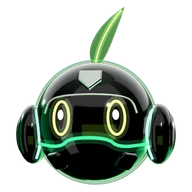
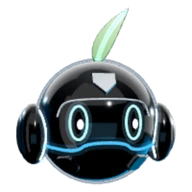
Oli no azul do app
Troca a paleta verde do avatar 3D (neon, contorno, luzes, reflexos, universo
digital, halo e chão) por tons do azul do app; mantém âmbar ao pensar, branco
ao falar e a folha verde-prata. Fundo do palco no mesmo azul nos dois temas e
mini Oli da barra inferior gerado de novo.

Claude-Session: https://claude.ai/code/session_013cEAfrwRiRdfPru71NKFBx

Changed region(s): [[0.0625, 0.0312, 0.9375, 0.9688]]

diff --git a/src/components/oli/oli3d.ts b/src/components/oli/oli3d.ts
@@ -1,4 +1,4 @@
-// Oli em 3D (versão aprovada no protótipo): robô preto espelhado com neon verde, olhos em anel,
+// Oli em 3D (versão aprovada no protótipo, recolorida no azul do app): robô preto espelhado com neon azul, olhos em anel,
 // folha de oliveira no topo e universo digital ao fundo.
 // Arrastar gira o robô (ele volta a olhar de frente); tocar nas partes faz o Oli reagir.
 // Este módulo só é carregado por import() dinâmico depois da primeira pintura (three fica em chunk próprio).
@@ -66,13 +66,13 @@ export async function createOli3D(container: HTMLElement, opts: { scenery?: bool
     ec.width = 512; ec.height = 256;
     const g = ec.getContext("2d")!;
     const grd = g.createLinearGradient(0, 0, 0, 256);
-    grd.addColorStop(0, "#eaf4ec"); grd.addColorStop(0.45, "#16201a"); grd.addColorStop(1, "#040605");
+    grd.addColorStop(0, "#eaf4fb"); grd.addColorStop(0.45, "#13202b"); grd.addColorStop(1, "#030609");
     g.fillStyle = grd; g.fillRect(0, 0, 512, 256);
     g.fillStyle = "#ffffff";
     [[30, 36, 210, 74], [290, 26, 180, 60], [446, 70, 38, 130], [190, 120, 50, 26]].forEach((r) => g.fillRect(r[0], r[1], r[2], r[3]));
-    g.fillStyle = "#6bff9a"; g.fillRect(120, 150, 110, 30);
-    g.fillStyle = "#c8f06a"; g.fillRect(330, 130, 90, 40);
-    g.fillStyle = "#2fd68a"; g.fillRect(6, 104, 44, 70);
+    g.fillStyle = "#3fa6da"; g.fillRect(120, 150, 110, 30);
+    g.fillStyle = "#9fdcff"; g.fillRect(330, 130, 90, 40);
+    g.fillStyle = "#1a79a8"; g.fillRect(6, 104, 44, 70);
     const envTex = new THREE.CanvasTexture(ec);
     envTex.mapping = THREE.EquirectangularReflectionMapping;
     envTex.colorSpace = THREE.SRGBColorSpace;
@@ -87,10 +87,10 @@ export async function createOli3D(container: HTMLElement, opts: { scenery?: bool
   const key = new THREE.DirectionalLight(0xffffff, 2.1);
   key.position.set(2.5, 3.5, 5);
   scene.add(key);
-  const rimL = new THREE.PointLight(0x7dffb0, 22, 14, 1.5);
+  const rimL = new THREE.PointLight(0x7fcdf5, 22, 14, 1.5);
   rimL.position.set(-4, 1.5, -2.5);
   scene.add(rimL);
-  const rimR = new THREE.PointLight(0xd8ffe0, 22, 14, 1.5);
+  const rimR = new THREE.PointLight(0xd7eefa, 22, 14, 1.5);
   rimR.position.set(4, 0.5, -2.5);
   scene.add(rimR);
 
@@ -160,17 +160,17 @@ export async function createOli3D(container: HTMLElement, opts: { scenery?: bool
   waveTex.wrapS = THREE.RepeatWrapping;
 
   const bodyMat = new THREE.MeshPhysicalMaterial({ color: 0x040506, roughness: 0.1, metalness: 0.85, clearcoat: 1, clearcoatRoughness: 0.05, envMapIntensity: 2.4, bumpMap: waveTex, bumpScale: 1.2 });
-  const accentMat = new THREE.MeshPhysicalMaterial({ color: 0xdce6df, roughness: 0.12, metalness: 1, envMapIntensity: 2, side: THREE.DoubleSide });
-  const btnMat = new THREE.MeshPhysicalMaterial({ color: 0x0a1410, roughness: 0.1, metalness: 0.7, clearcoat: 1, clearcoatRoughness: 0.08, envMapIntensity: 2 });
-  // três grupos de neon em tons de verde
+  const accentMat = new THREE.MeshPhysicalMaterial({ color: 0xdce5ec, roughness: 0.12, metalness: 1, envMapIntensity: 2, side: THREE.DoubleSide });
+  const btnMat = new THREE.MeshPhysicalMaterial({ color: 0x08121a, roughness: 0.1, metalness: 0.7, clearcoat: 1, clearcoatRoughness: 0.08, envMapIntensity: 2 });
+  // três grupos de neon em tons do azul do app
   const mkSet = (c: number): NeonSet => ({
     base: new THREE.Color(c), cur: new THREE.Color(c),
     core: new THREE.MeshBasicMaterial({ color: c, toneMapped: false }),
     glow: new THREE.MeshBasicMaterial({ color: c, transparent: true, opacity: 0.22, blending: add, depthWrite: false, toneMapped: false }),
   });
-  const setEye = mkSet(0xd2ff8a), setMouth = mkSet(0x3dff8f), setEar = mkSet(0xa6ffd0);
+  const setEye = mkSet(0x9fdcff), setMouth = mkSet(0x3fa6da), setEar = mkSet(0xc8ecff);
   const neonSets = [setEye, setMouth, setEar];
-  const screenMat = new THREE.MeshStandardMaterial({ color: 0x072a14, emissive: 0x2fd36a, emissiveIntensity: 0.8, roughness: 0.2, metalness: 0.1 });
+  const screenMat = new THREE.MeshStandardMaterial({ color: 0x06243a, emissive: 0x3fa6da, emissiveIntensity: 0.8, roughness: 0.2, metalness: 0.1 });
   const hitMat = new THREE.MeshBasicMaterial({ visible: false });
 
   function glyphDot() {
@@ -245,9 +245,9 @@ export async function createOli3D(container: HTMLElement, opts: { scenery?: bool
   const mouth = neon(mouth2d.map(([x, y]) => new THREE.Vector3(x, y, zS(x, y) + 0.03)), false, 0.026, setMouth);
   bot.add(mouth);
 
-  // borda de vidro: brilho verde nas bordas do corpo
+  // borda de vidro: brilho azul nas bordas do corpo
   const rimMat = new THREE.ShaderMaterial({
-    uniforms: { uColor: { value: new THREE.Color(0x7dffa8) }, uInt: { value: 0.8 } },
+    uniforms: { uColor: { value: new THREE.Color(0x7fcdf5) }, uInt: { value: 0.8 } },
     vertexShader: "varying vec3 vN; varying vec3 vV; void main(){ vN = normalize(normalMatrix * normal); vec4 mv = modelViewMatrix * vec4(position,1.0); vV = normalize(-mv.xyz); gl_Position = projectionMatrix * mv; }",
     fragmentShader: "uniform vec3 uColor; uniform float uInt; varying vec3 vN; varying vec3 vV; void main(){ float f = pow(1.0 - abs(dot(normalize(vN), normalize(vV))), 3.0); gl_FragColor = vec4(uColor * f * uInt, f * uInt); }",
     transparent: true, depthWrite: false, blending: add,
@@ -296,7 +296,7 @@ export async function createOli3D(container: HTMLElement, opts: { scenery?: bool
   })();
   bot.add(chev);
 
-  // folha de oliveira: alongada, verde-prata, com nervura de neon (nasce no topo da cabeça)
+  // folha de oliveira: alongada, verde-prata (identidade do nome), com nervura de neon azul (nasce no topo da cabeça)
   const leafMat = new THREE.MeshPhysicalMaterial({ color: 0x5f9a58, roughness: 0.28, metalness: 0.55, clearcoat: 0.8, clearcoatRoughness: 0.15, envMapIntensity: 1.8, side: THREE.DoubleSide });
   const bendX = (y: number) => 0.3 * y * y;
   const leaf = new THREE.Group();
@@ -338,11 +338,11 @@ export async function createOli3D(container: HTMLElement, opts: { scenery?: bool
   });
 
   // ---------- brilho de fundo e chão ----------
-  const halo = new THREE.Sprite(new THREE.SpriteMaterial({ map: dotTex, color: 0x6fd08e, transparent: true, opacity: 0.32, depthWrite: false, blending: add }));
+  const halo = new THREE.Sprite(new THREE.SpriteMaterial({ map: dotTex, color: 0x4ba3d4, transparent: true, opacity: 0.32, depthWrite: false, blending: add }));
   halo.scale.set(26, 26, 1);
   halo.position.set(0, 0, -1.6);
   scene.add(halo);
-  const floor = new THREE.Mesh(new THREE.CircleGeometry(1.5, 48), new THREE.MeshBasicMaterial({ map: dotTex, color: 0x6fd08e, transparent: true, opacity: 0.3, depthWrite: false, blending: add }));
+  const floor = new THREE.Mesh(new THREE.CircleGeometry(1.5, 48), new THREE.MeshBasicMaterial({ map: dotTex, color: 0x4ba3d4, transparent: true, opacity: 0.3, depthWrite: false, blending: add }));
   floor.rotation.x = -Math.PI / 2;
   floor.position.set(0, -1.32, 0.1);
   floor.scale.set(1.5, 1.5, 1);
@@ -351,12 +351,12 @@ export async function createOli3D(container: HTMLElement, opts: { scenery?: bool
   // ---------- universo digital ao fundo (hologramas, dados, atmosfera) ----------
   const bg = new THREE.Group();
   scene.add(bg);
-  const PAL = [0x6bff9a, 0xd2ff8a, 0xa6ffd0, 0x3dff8f, 0x8fe8ff, 0xffffff];
+  const PAL = [0x3fa6da, 0x9fdcff, 0xc8ecff, 0x6cb8e8, 0xd7eefa, 0xffffff];
   const bgTint = new THREE.Color(0xffffff), bgTintAmber = new THREE.Color(0xffa860), bgTintNow = new THREE.Color(0xffffff);
 
   // névoas coloridas
   const nebulae: { sp: THREE.Sprite; ox: number; oy: number; o: number; ph: number }[] = [];
-  [[-3.2, 1.6, -6, 14, 0x2fd68a, 0.3], [3.4, -1.2, -7, 15, 0x1fa86a, 0.28], [0.4, 2.4, -8, 16, 0x9bd84a, 0.2], [-2.2, -2.4, -6, 12, 0x1f8f9a, 0.24], [2.8, 2.2, -7, 11, 0x37c98a, 0.2], [-5, 0, -8, 14, 0x2fd68a, 0.22], [5, 0.4, -8, 14, 0x3fe0a0, 0.22], [0, -3.4, -6, 14, 0x1fa86a, 0.24], [0, 0.2, -9, 22, 0x2a9a6a, 0.22]].forEach(([x, y, z, s, c, o]) => {
+  [[-3.2, 1.6, -6, 14, 0x1a79a8, 0.3], [3.4, -1.2, -7, 15, 0x0f5c82, 0.28], [0.4, 2.4, -8, 16, 0x3fa6da, 0.2], [-2.2, -2.4, -6, 12, 0x0f5c82, 0.24], [2.8, 2.2, -7, 11, 0x1a79a8, 0.2], [-5, 0, -8, 14, 0x1a79a8, 0.22], [5, 0.4, -8, 14, 0x2a8cc0, 0.22], [0, -3.4, -6, 14, 0x0f5c82, 0.24], [0, 0.2, -9, 22, 0x15699a, 0.22]].forEach(([x, y, z, s, c, o]) => {
     const sp = new THREE.Sprite(new THREE.SpriteMaterial({ map: dotTex, color: c, transparent: true, opacity: o, depthWrite: false, blending: add }));
     sp.position.set(x, y, z); sp.scale.set(s, s, 1);
     bg.add(sp);
@@ -400,7 +400,7 @@ export async function createOli3D(container: HTMLElement, opts: { scenery?: bool
     for (let i = 0; i < n; i++) items.push({ x: Math.round(rnd(-4.4, 4.4) / 0.35) * 0.35, y: rnd(-3.2, 3.2), z: rnd(-5.5, -2.6), v: rnd(0.3, 0.95) });
     const geo = new THREE.BufferGeometry();
     geo.setAttribute("position", new THREE.BufferAttribute(pos, 3));
-    const pts = new THREE.Points(geo, new THREE.PointsMaterial({ color: 0x6bff9a, size: 0.27, map: tex, transparent: true, opacity: 0.5, depthWrite: false, blending: add }));
+    const pts = new THREE.Points(geo, new THREE.PointsMaterial({ color: 0x6cb8e8, size: 0.27, map: tex, transparent: true, opacity: 0.5, depthWrite: false, blending: add }));
     bg.add(pts);
     return { pts, items, n };
   });
@@ -413,7 +413,7 @@ export async function createOli3D(container: HTMLElement, opts: { scenery?: bool
   const gridGeo = new THREE.BufferGeometry();
   gridGeo.setAttribute("position", new THREE.Float32BufferAttribute(gridPts, 3));
   const gridMat = new THREE.ShaderMaterial({
-    uniforms: { uTime: { value: 0 }, uColor: { value: new THREE.Color(0x3dff8f) }, uInt: { value: 1 } },
+    uniforms: { uTime: { value: 0 }, uColor: { value: new THREE.Color(0x3fa6da) }, uInt: { value: 1 } },
     vertexShader: "varying vec3 vP; void main(){ vP = position; gl_Position = projectionMatrix * modelViewMatrix * vec4(position, 1.0); }",
     fragmentShader: "uniform float uTime; uniform vec3 uColor; uniform float uInt; varying vec3 vP; void main(){ float d = length(vP.xz); float fade = 1.0 - smoothstep(2.0, 8.5, d); float wave = exp(-pow((fract(d * 0.14 - uTime * 0.22) - 0.5) * 9.0, 2.0)); float a = fade * (0.3 + 0.9 * wave) * uInt; gl_FragColor = vec4(uColor * a, a); }",
     transparent: true, depthWrite: false, blending: add,
@@ -431,7 +431,7 @@ export async function createOli3D(container: HTMLElement, opts: { scenery?: bool
   const rings = [[1.35, 0.7, 0.16, 0.1, 0.55], [1.85, 0.5, 0.35, 0.18, -0.38], [2.4, 0.38, 0.1, 0.07, 0.25], [3.05, 0.26, 0.5, 0.25, -0.15]].map(([r, op, dash, gap, sp]) => {
     const pts: number[][] = [];
     for (let i = 0; i <= 160; i++) { const a = (i / 160) * TAU; pts.push([Math.cos(a) * r, Math.sin(a) * r]); }
-    const mat = new THREE.LineDashedMaterial({ color: 0x8dffc0, transparent: true, opacity: op, dashSize: dash, gapSize: gap, blending: add, depthWrite: false });
+    const mat = new THREE.LineDashedMaterial({ color: 0x9fdcff, transparent: true, opacity: op, dashSize: dash, gapSize: gap, blending: add, depthWrite: false });
     const ln = new THREE.Line(new THREE.BufferGeometry().setFromPoints(flat(pts)), mat);
     ln.computeLineDistances();
     floorG.add(ln);
@@ -440,7 +440,7 @@ export async function createOli3D(container: HTMLElement, opts: { scenery?: bool
   });
   const tickPts: THREE.Vector3[] = [];
   for (let i = 0; i < 120; i++) { const a = (i / 120) * TAU, r1 = 3.35, r2 = i % 6 === 0 ? 3.6 : 3.47; tickPts.push(new THREE.Vector3(Math.cos(a) * r1, 0, Math.sin(a) * r1), new THREE.Vector3(Math.cos(a) * r2, 0, Math.sin(a) * r2)); }
-  const ticks = new THREE.LineSegments(new THREE.BufferGeometry().setFromPoints(tickPts), new THREE.LineBasicMaterial({ color: 0x8dffc0, transparent: true, opacity: 0.35, blending: add, depthWrite: false }));
+  const ticks = new THREE.LineSegments(new THREE.BufferGeometry().setFromPoints(tickPts), new THREE.LineBasicMaterial({ color: 0x9fdcff, transparent: true, opacity: 0.35, blending: add, depthWrite: false }));
   floorG.add(ticks);
   ringMats.push(ticks.material);
 
@@ -451,11 +451,11 @@ export async function createOli3D(container: HTMLElement, opts: { scenery?: bool
   for (let i = 0; i < PXN; i++) pxItems.push({ x: rnd(-6.5, 6.5), y: rnd(-4.2, 4.2), z: rnd(-8, -1.5), v: rnd(0.05, 0.3), ph: rnd(0, 6.28) });
   const pxGeo = new THREE.BufferGeometry();
   pxGeo.setAttribute("position", new THREE.BufferAttribute(pxPos, 3));
-  const pixels = new THREE.Points(pxGeo, new THREE.PointsMaterial({ color: 0x9dffc8, size: 0.075, transparent: true, opacity: 0.7, depthWrite: false, blending: add, sizeAttenuation: true }));
+  const pixels = new THREE.Points(pxGeo, new THREE.PointsMaterial({ color: 0xc8ecff, size: 0.075, transparent: true, opacity: 0.7, depthWrite: false, blending: add, sizeAttenuation: true }));
   bg.add(pixels);
 
   // faixa de varredura holográfica
-  const scan = new THREE.Sprite(new THREE.SpriteMaterial({ map: dotTex, color: 0x6bff9a, transparent: true, opacity: 0.1, depthWrite: false, blending: add }));
+  const scan = new THREE.Sprite(new THREE.SpriteMaterial({ map: dotTex, color: 0x6cb8e8, transparent: true, opacity: 0.1, depthWrite: false, blending: add }));
   scan.scale.set(11, 0.35, 1);
   scan.position.z = -2.4;
   bg.add(scan);
@@ -490,7 +490,7 @@ export async function createOli3D(container: HTMLElement, opts: { scenery?: bool
   let lookX = 0, lookY = 0, tLookX = 0, tLookY = 0, lastPtr = 0, wanderAt = 0;
   let blinkT = -1, nextBlink = 2, flash = 0;
   const whiteC = new THREE.Color(0xffffff), amberC = new THREE.Color(0xff9a2a), tmpC = new THREE.Color();
-  const haloIdle = new THREE.Color(0x6fd08e), haloAmber = new THREE.Color(0xff9a2a);
+  const haloIdle = new THREE.Color(0x4ba3d4), haloAmber = new THREE.Color(0xff9a2a);
 
   function resize() {
     const r = container.getBoundingClientRect();
@@ -669,7 +669,7 @@ export async function createOli3D(container: HTMLElement, opts: { scenery?: bool
     rimL.intensity = 20 + lvlSm * 14 + flash * 10;
     rimR.intensity = 20 + lvlSm * 14 + flash * 10;
     screenMat.emissiveIntensity = 0.5 + (speaking ? lvlSm * 2 : 0) + (thinking ? 0.6 + 0.6 * Math.sin(t * 6) : 0) + flash;
-    screenMat.emissive.setHex(thinking ? 0xc8701a : 0x2fd36a);
+    screenMat.emissive.setHex(thinking ? 0xc8701a : 0x3fa6da);
 
     // olhos: seguem o dedo, piscam, pupila reage
     if (now - lastPtr > 2500 && now > wanderAt) { tLookX = (Math.random() - 0.5) * 0.28; tLookY = (Math.random() - 0.5) * 0.2; wanderAt = now + 2200; }
@@ -716,7 +716,7 @@ export async function createOli3D(container: HTMLElement, opts: { scenery?: bool
         a.setXYZ(i, q.x, q.y, q.z);
       }
       a.needsUpdate = true;
-      R.pts.material.color.set(thinking ? 0xffa860 : 0x6bff9a);
+      R.pts.material.color.set(thinking ? 0xffa860 : 0x6cb8e8);
       R.pts.material.opacity = 0.45 + bgLvl * 0.3;
     });
     gridMat.uniforms.uTime.value = t * (speaking ? 1.8 : thinking ? 1.4 : 1);
@@ -733,7 +733,7 @@ export async function createOli3D(container: HTMLElement, opts: { scenery?: bool
         pa.setXYZ(i, q.x + Math.sin(t * 0.4 + q.ph) * 0.12, q.y, q.z);
       }
       pa.needsUpdate = true;
-      pixels.material.color.set(thinking ? 0xffb070 : 0x9dffc8);
+      pixels.material.color.set(thinking ? 0xffb070 : 0xc8ecff);
       pixels.material.opacity = 0.55 + bgLvl * 0.35 + flash * 0.2;
     }
     ringMats.forEach((m) => m.color.copy(thinking ? amberC : setEar.base));

diff --git a/src/app/globals.css b/src/app/globals.css
@@ -227,14 +227,14 @@ dialog.calendar-dialog::backdrop {
 
 /* Palco do Oli: largura total, quadrado até 56% da altura, bordas de cima/baixo suavizadas.
    Fundo escuro nos dois temas: o avatar e o "universo digital" aprovados foram feitos sobre fundo escuro
-   (brilhos aditivos somem num fundo claro). Verde do protótipo sobre o azul-petróleo escuro do layout. */
+   (brilhos aditivos somem num fundo claro). Azul do app (#1A79A8 → #0F5C82 → #06354F) sobre o fundo escuro do layout. */
 .oli-stage {
   position: relative;
   width: 100%;
   aspect-ratio: 1 / 1;
   max-height: 56vh;
   background:
-    radial-gradient(130% 100% at 50% 52%, rgb(60 170 115 / 0.34), rgb(30 100 70 / 0.16) 55%, rgb(20 60 45 / 0.05) 85%, transparent),
+    radial-gradient(130% 100% at 50% 52%, rgb(26 121 168 / 0.38), rgb(15 92 130 / 0.18) 55%, rgb(6 53 79 / 0.06) 85%, transparent),
     #0a141c;
   -webkit-mask-image: linear-gradient(to bottom, transparent 0, #000 14%, #000 86%, transparent 100%);
   mask-image: linear-gradient(to bottom, transparent 0, #000 14%, #000 86%, transparent 100%);
